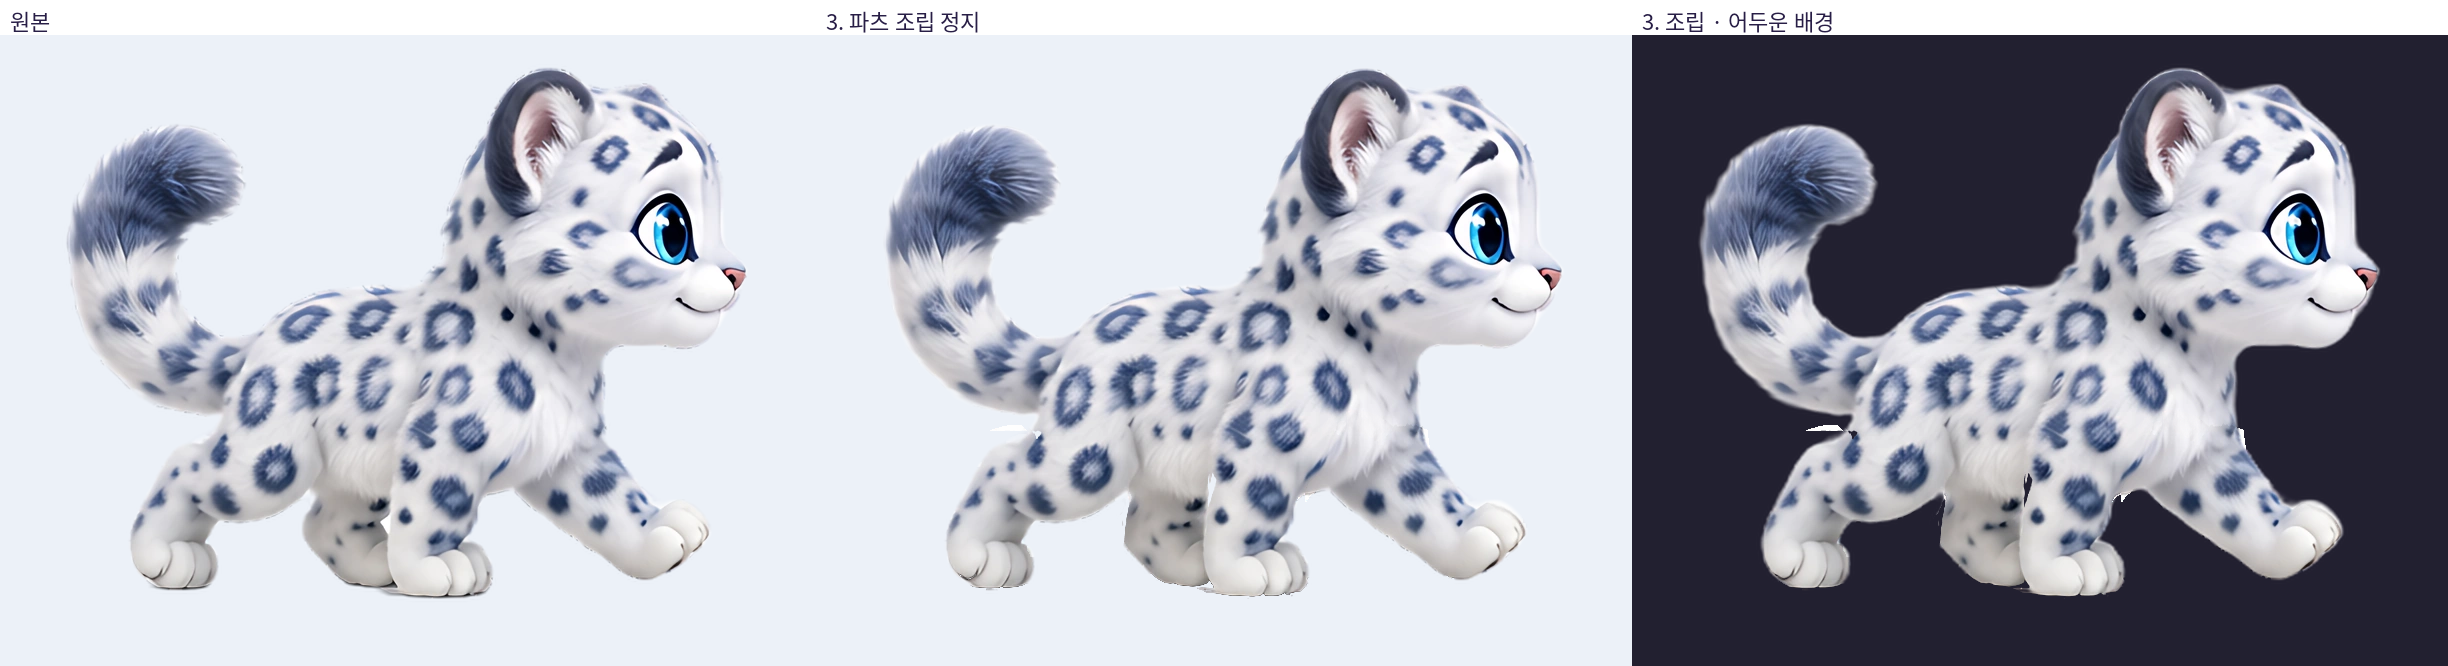
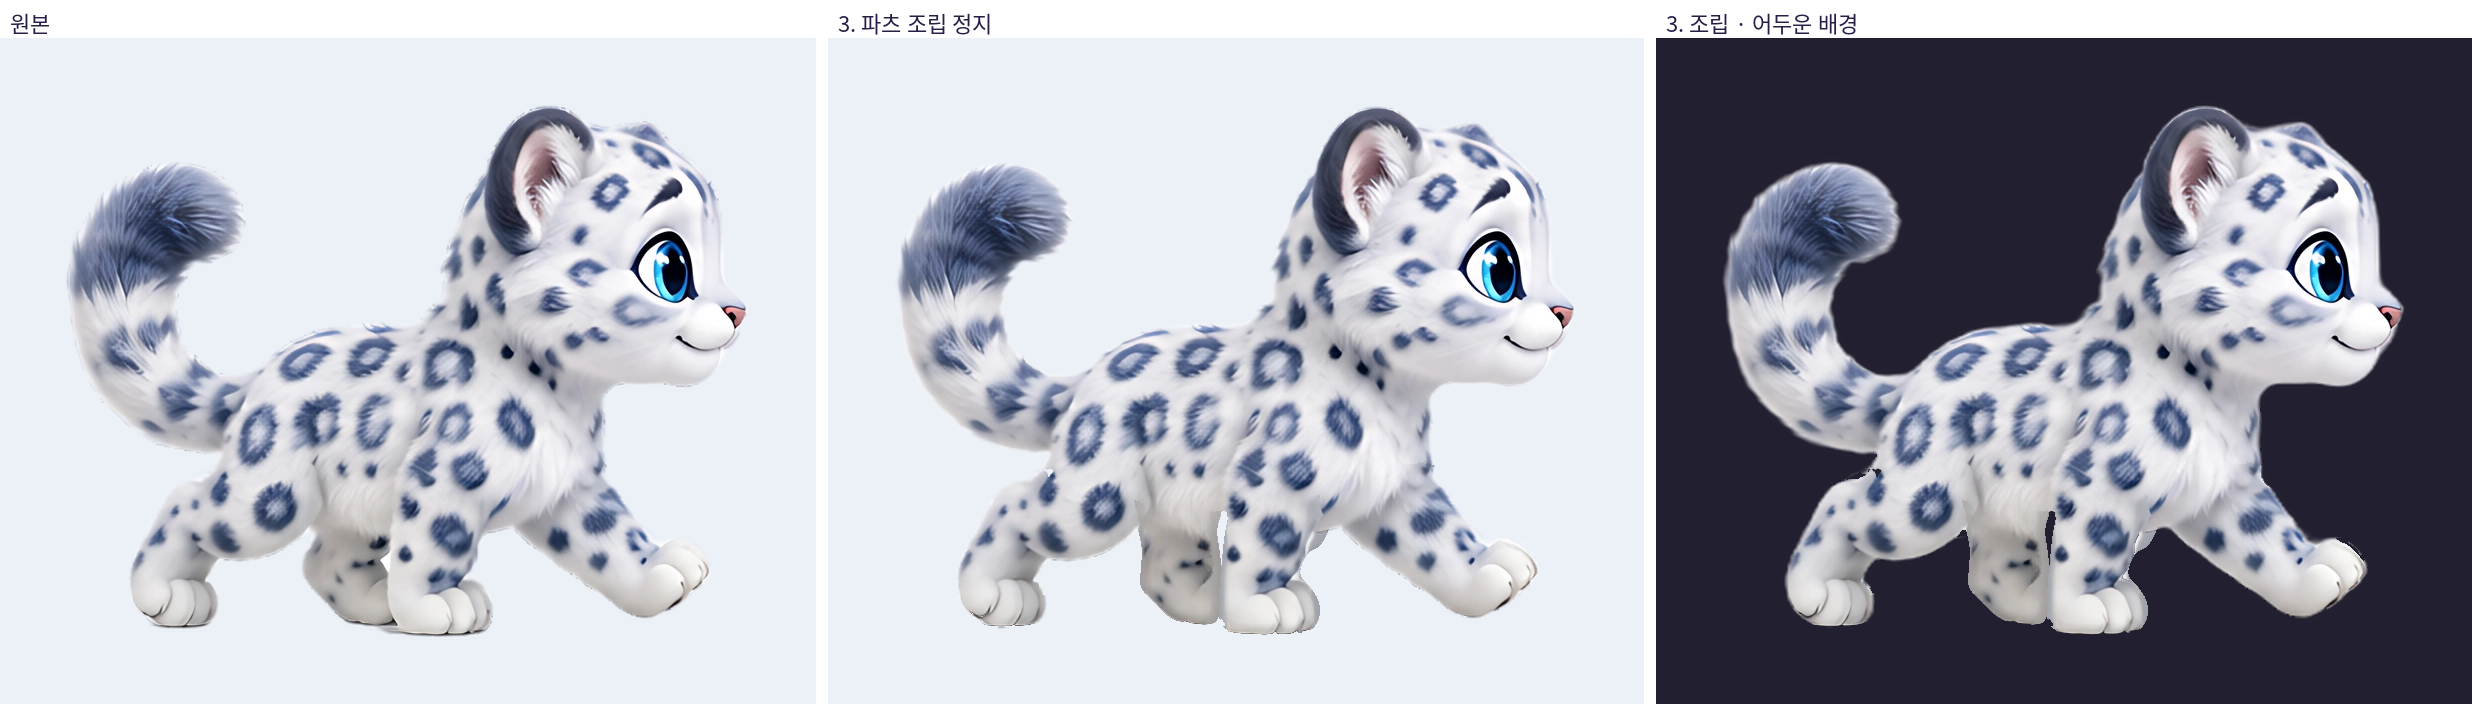
설표 파츠 v3: 먼 다리 옆면 직선 절단 제거(곡선 실루엣 + 가려진 옆면 복원), 검증 이미지 제목이 파츠를 가리지 않게, 흰 잔여 제거
Claude-Session: https://claude.ai/code/session_01RMhvkZ6TwuFx17FdDKw2Ho

diff --git a/scripts/pets/godot/build_walk_parts_v3.py b/scripts/pets/godot/build_walk_parts_v3.py
@@ -30,7 +30,7 @@ ORIG_SHEET = ROOT / 'art/pets/godot_src/ice_leopard_s1/pose_walk.png'
 OUT = ROOT / 'art/pets/godot_src/ice_leopard_s1/parts_v3'
 K = 2          # 원본(native) px → HD px
 SS = 4         # 곡선 래스터 슈퍼샘플
-PAD = 24       # 파츠 이미지 여백 (HD px)
+PAD = 40       # 파츠 이미지 여백 (HD px)
 LAMA = None
 RNG = np.random.default_rng(7)
 
@@ -121,13 +121,14 @@ def inpaint(rgb, mask):
 LEGS = {
     'leg_hind_near': dict(paw=(65, 262), cap=((110, 213), 24), z=2, near=True, pts=lambda c, r:
         [(34, 280), (33, 246), (44, 222), (56, 202), (70, 193), (86, 192)] + arc(c, r, 213, 332) +
-        [(134, 206), (136.5, 214), (136.5, 226), (134, 235), (124, 246), (100, 248), (94, 256), (92, 280)]),
-    'leg_hind_far': dict(paw=(157, 265), cap=((158, 214), 19), z=-2, near=False, pts=lambda c, r:
-        arc(c, r, 200, 378) + [(176, 228), (176.5, 246), (175.5, 262), (175, 281), (134, 281),
-                                (133, 262), (134, 246), (137, 232), (134, 218), (135, 204)]),
-    'leg_front_far': dict(paw=(202, 265), cap=((200, 214), 21), z=-1, near=False, pts=lambda c, r:
-        arc(c, r, 162, 300) + [(226, 199), (232, 207), (233.5, 217), (231.5, 224), (224, 231), (226, 238), (228, 252), (230, 266), (231, 282), (174.5, 282),
-                                (174, 266), (174.5, 252), (175.5, 240), (178.5, 226)]),
+        [(131.5, 205), (134, 214), (135, 226), (133, 235), (124, 246), (100, 248), (94, 256), (92, 280)]),
+    'leg_hind_far': dict(paw=(157, 265), cap=((158, 214), 19), z=-2, near=False, trust=(139, 167), pts=lambda c, r:
+        arc(c, r, 200, 378) + [(174, 226), (176.5, 240), (176, 254), (176.5, 266), (174, 274), (168, 277.5), (155, 278),
+                                (142, 277), (137, 272), (135.5, 262), (136, 248), (137.5, 234), (133, 222), (131, 210), (136, 203)]),
+    'leg_front_far': dict(paw=(202, 265), cap=((200, 214), 21), z=-1, near=False, trust=(180, 221), pts=lambda c, r:
+        arc(c, r, 162, 300) + [(226, 199), (232, 207), (233, 217), (230, 227), (225.5, 236), (225, 248), (227.5, 260),
+                               (228, 270), (225, 277), (215, 279.5), (190, 280), (178, 278), (175, 270), (175.5, 256),
+                               (177, 240), (178.5, 226)]),
     'leg_front_near': dict(paw=(322, 255), cap=((250, 209), 24), z=3, near=True, pts=lambda c, r:
         arc(c, r, 155, 322) + [(282, 192), (300, 204), (322, 222), (344, 238), (346, 262), (334, 278),
                                (290, 280), (262, 266), (240, 250), (226, 238), (224, 228), (226.5, 219)]),
@@ -191,9 +192,11 @@ def main():
     closed = cv2.morphologyEx((al > 0.5).astype(np.uint8), cv2.MORPH_CLOSE,
                               cv2.getStructuringElement(cv2.MORPH_ELLIPSE, (15 * K, 15 * K))) > 0
     gaps = body_in & (al < 0.6) & closed & (d_body < 14 * K) & (xs > 98) & (xs < 276)
-    fill_m = (near_moving & body_in & (d_body > -6 * K)) | gaps
+    fill_m = (near_moving & body_in & (d_body > -6 * K) & (al > 0.3)) | gaps
     body_rgb = inpaint(rgbw, fill_m)
     body_al = np.where(fill_m, 1.0, al)
+    resid = (a[..., :3].min(-1) > 230) & (al < 0.9) & (d_body < 10 * K) & ~fill_m   # 배경 제거 때 남은 흰 잔여
+    body_al = np.where(resid, 0.0, body_al)
     body_al = np.minimum(body_al, fur_alpha(d_body, key=1))
     parts = {'body': (body_rgb, body_al, (0, 0))}
     wbands = {}
@@ -201,6 +204,7 @@ def main():
     # ── 다리 ──
     in_front = {'leg_hind_far': ['leg_hind_near', 'leg_front_far', 'leg_front_near'],
                 'leg_front_far': ['leg_front_near'], 'leg_hind_near': [], 'leg_front_near': []}
+    ground_y = float(np.where(al.max(1) > 0.5)[0].max())       # 발바닥 바닥선 (HD 행)
     for n, L in legs.items():
         inside = L['inside']
         occl = np.zeros_like(inside)
@@ -210,28 +214,47 @@ def main():
         # 다리 사이에 남아 있던 배경 흰 조각(배경 제거 잔여)도 복원 대상으로
         white = (a[..., :3].min(-1) > 236) & (al > 0.3) & inside & (L['d'] < 10 * K)
         white_fix = cv2.dilate(white.astype(np.uint8), np.ones((5, 5), np.uint8)).astype(bool) & inside & ~occl
-        # 다리와 다리 사이의 좁은 배경 틈(실루엣 안쪽 오목한 곳)도 이 다리의 털로 채움 — 관절이 벌어질 때 구멍 방지
-        if not L['near']:
-            occl |= inside & closed & (al < 0.6) & (L['d'] > 0) & (yy < (L['c'][1] + 18) * K)
-        # 몸통 위로 올라간 캡 부분 중 원본이 몸통 털인 곳은 그대로(정지 자세에서 원본과 동일), 다른 다리에 가려진 곳만 복원
         rgb = a[..., :3].copy()
         base_al = al.copy()
-        if occl.any() or white_fix.any():
-            fill = inpaint(rgbw, occl | white_fix)
-            rgb = np.where((occl | white_fix)[..., None], fill, rgb)
-            base_al = np.where(occl, 1.0, base_al)          # 흰 잔여 조각은 색만 털로 바꾸고 알파(윤곽)는 원본 유지
-        # 다리 바닥: 발바닥 아래로 복원이 넘치지 않게 원본 바닥선 기준
+        d_edge = L['d']
         ground = np.where(al.max(1) > 0.5)[0].max()
-        base_al = np.where(occl & (yy > ground - 1), al, base_al)
-        la = np.minimum(base_al, fur_alpha(L['d'], key=sum(map(ord, n))))
+        if not L['near']:
+            # 먼 다리: 실루엣 = (원본에 보이는 이 다리) ∪ (앞 다리에 가려진 부분), 윤곽 곡선 안으로 제한 후
+            # 닫기·열기로 모서리·홈을 둥글게 → 원본에 확실히 이 다리인 가운데 부분만 원본 픽셀, 나머지는 LaMa 로 털 복원
+            xs_ = np.arange(W)[None, :] / K - off
+            vis = inside & (al > 0.5)
+            shape = ((vis | occl) & inside).astype(np.uint8)
+            ker = cv2.getStructuringElement(cv2.MORPH_ELLIPSE, (10 * K + 1, 10 * K + 1))
+            shape = cv2.morphologyEx(shape, cv2.MORPH_CLOSE, ker)
+            shape = cv2.morphologyEx(shape, cv2.MORPH_OPEN, ker)
+            shape = (cv2.GaussianBlur(shape.astype(np.float32), (0, 0), 2.0 * K) > 0.5) & inside
+            own = vis & ~occl & (xs_ >= L['trust'][0]) & (xs_ <= L['trust'][1])
+            fillm = shape & ~own & (yy < ground - 1)
+            ctx = rgbw.copy()
+            ctx[~shape] = rgbw[own].mean(0)                       # 배경 흰색이 번지지 않게 바깥은 다리 평균색
+            fill = inpaint(ctx, fillm)
+            rgb = np.where(fillm[..., None], fill, rgb)
+            base_al = np.where(fillm, 1.0, np.where(own | (shape & (yy >= ground - 1)), al, 0.0))
+            sm = shape.astype(np.uint8)
+            d_edge = (cv2.distanceTransform(sm, cv2.DIST_L2, 5) - cv2.distanceTransform(1 - sm, cv2.DIST_L2, 5))
+        else:
+            if occl.any() or white_fix.any():
+                fill = inpaint(rgbw, occl | white_fix)
+                rgb = np.where((occl | white_fix)[..., None], fill, rgb)
+                base_al = np.where(occl, 1.0, base_al)      # 흰 잔여 조각은 색만 털로 바꾸고 알파(윤곽)는 원본 유지
+            base_al = np.where(occl & (yy > ground - 1), al, base_al)
+            # 실루엣 바깥쪽 틈에 남은 흰 배경 잔여(반투명)는 지움 → 회전 시 흰 실선이 보이지 않게
+            resid = (a[..., :3].min(-1) > 230) & (al < 0.85) & (L['d'] < 8 * K)
+            base_al = np.where(resid, 0.0, base_al)
+        la = np.minimum(base_al, fur_alpha(d_edge, key=sum(map(ord, n))))
         # 바닥 접지 그림자 제거: 발 밑의 검은 반투명 그림자(발 윤곽선은 회색이라 남음) → 다리를 들면 그림자가 따라 뜨지 않게
         luma = a[..., :3].mean(-1)
         rows = np.arange(H)[:, None]
         shadow_keep = np.clip((luma - 45) / 45, 0, 1)
         la = la * np.where(rows > ground - 12 * K, shadow_keep, 1)
         # 만든 경계(원본 알파가 1인데 곡선이 자른 곳) 안쪽에 둥근 음영 → 원기둥 같은 다리 입체감
-        cut = (al > 0.9) & (L['d'] < 6 * K)
-        ao = 1 - 0.10 * np.clip(1 - L['d'] / (6 * K), 0, 1) * cut * L['w']   # 몸통에 붙은 윗부분엔 음영 없음
+        cut = (base_al > 0.9) & (d_edge < 6 * K)
+        ao = 1 - 0.10 * np.clip(1 - d_edge / (6 * K), 0, 1) * cut * L['w']   # 몸통에 붙은 윗부분엔 음영 없음
         rgb = rgb * ao[..., None]
         parts[n] = (rgb, la, (L['c'][0] * K, L['c'][1] * K))
         wbands[n] = L['wband']
@@ -309,27 +332,29 @@ def compose(imgs, size, rot=None, lift=None):
 
 
 def label(im, text):
+    """이미지 위에 제목 띠를 '덧붙인다'(이미지를 가리지 않음)."""
     from PIL import ImageDraw, ImageFont
-    d = ImageDraw.Draw(im)
-    try:
-        f = ImageFont.truetype('/usr/share/fonts/truetype/noto/NotoSansCJK-Regular.ttc', 22)
-    except OSError:
+    f = ImageFont.load_default()
+    for path in ('/usr/share/fonts/opentype/noto/NotoSansCJK-Regular.ttc', '/usr/share/fonts/truetype/noto/NotoSansCJK-Regular.ttc'):
         try:
-            f = ImageFont.truetype('/usr/share/fonts/opentype/noto/NotoSansCJK-Regular.ttc', 22)
+            f = ImageFont.truetype(path, 22)
+            break
         except OSError:
-            f = ImageFont.load_default()
-    d.rectangle([0, 0, im.width, 34], fill=(255, 255, 255, 230))
-    d.text((10, 4), text, fill=(40, 30, 70), font=f)
-    return im
+            pass
+    out = Image.new('RGBA', (im.width, im.height + 38), (255, 255, 255, 255))
+    out.alpha_composite(im, (0, 38))
+    ImageDraw.Draw(out).text((10, 6), text, fill=(40, 30, 70), font=f)
+    return out
 
 
 def grid(cells, cols):
     w = max(c.width for c in cells)
     h = max(c.height for c in cells)
     rows = (len(cells) + cols - 1) // cols
-    S = Image.new('RGBA', (w * cols, h * rows), (255, 255, 255, 255))
+    g = 12
+    S = Image.new('RGBA', (w * cols + g * (cols - 1), h * rows + g * (rows - 1)), (255, 255, 255, 255))
     for i, c in enumerate(cells):
-        S.alpha_composite(c, ((i % cols) * w, (i // cols) * h))
+        S.alpha_composite(c, ((i % cols) * (w + g), (i // cols) * (h + g)))
     return S
 
 
